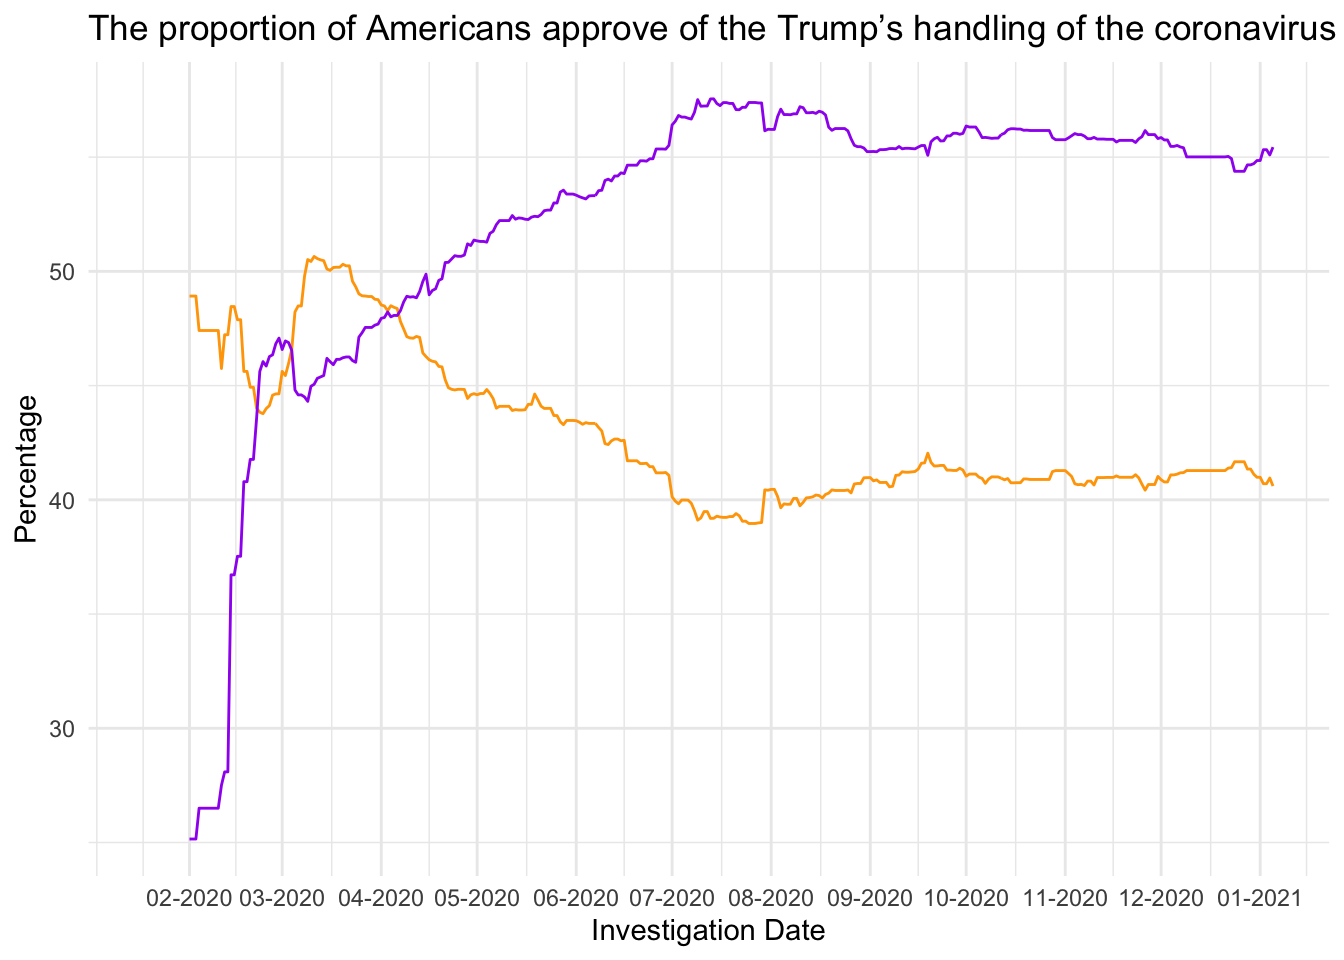
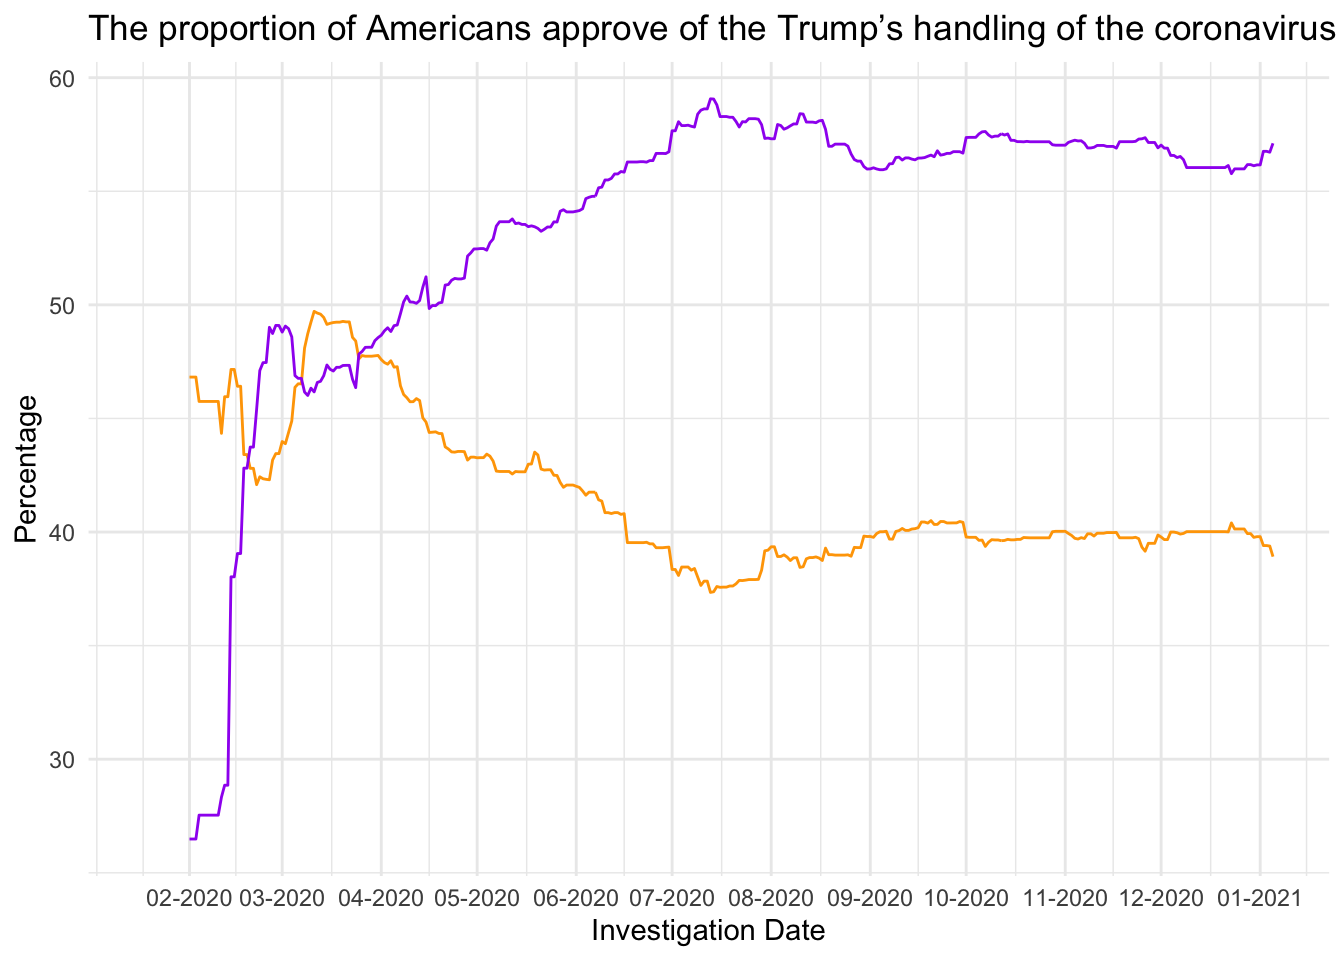
corrected a mistake from exercise 6

diff --git a/docs/presentation-exercise/presentation-exercise.html b/docs/presentation-exercise/presentation-exercise.html
@@ -372,7 +372,7 @@ disapprove_estimate), : Ignoring unknown parameters: `method` and `se`</code></p
 <div class="sourceCode cell-code" id="cb21"><pre class="sourceCode r code-with-copy"><code class="sourceCode r"><span id="cb21-1"><a href="#cb21-1" aria-hidden="true" tabindex="-1"></a><span class="co"># for figure 2</span></span>
 <span id="cb21-2"><a href="#cb21-2" aria-hidden="true" tabindex="-1"></a></span>
 <span id="cb21-3"><a href="#cb21-3" aria-hidden="true" tabindex="-1"></a>data1_trump <span class="ot">&lt;-</span> data1 <span class="sc">%&gt;%</span></span>
-<span id="cb21-4"><a href="#cb21-4" aria-hidden="true" tabindex="-1"></a>  <span class="fu">filter</span>(subject <span class="sc">==</span> <span class="st">"Trump"</span>) <span class="sc">%&gt;%</span></span>
+<span id="cb21-4"><a href="#cb21-4" aria-hidden="true" tabindex="-1"></a>  <span class="fu">filter</span>(subject <span class="sc">==</span> <span class="st">"Trump"</span>, party <span class="sc">==</span> <span class="st">"all"</span>) <span class="sc">%&gt;%</span></span>
 <span id="cb21-5"><a href="#cb21-5" aria-hidden="true" tabindex="-1"></a>  <span class="fu">group_by</span>(modeldate) <span class="sc">%&gt;%</span></span>
 <span id="cb21-6"><a href="#cb21-6" aria-hidden="true" tabindex="-1"></a>  <span class="fu">summarize</span>(<span class="at">approve_estimate_avg =</span> <span class="fu">mean</span>(approve_estimate, <span class="at">na.rm =</span> <span class="cn">TRUE</span>),</span>
 <span id="cb21-7"><a href="#cb21-7" aria-hidden="true" tabindex="-1"></a>            <span class="at">disapprove_estimate_avg =</span> <span class="fu">mean</span>(disapprove_estimate, <span class="at">na.rm =</span> <span class="cn">TRUE</span>))</span>
@@ -493,23 +493,23 @@ disapprove_estimate_avg), : Ignoring unknown parameters: `method` and `se`</code
 <span id="cb33-26"><a href="#cb33-26" aria-hidden="true" tabindex="-1"></a>  ) <span class="sc">%&gt;%</span></span>
 <span id="cb33-27"><a href="#cb33-27" aria-hidden="true" tabindex="-1"></a>  <span class="fu">opt_stylize</span>(<span class="at">style =</span> <span class="dv">6</span>, <span class="at">color =</span> <span class="st">'gray'</span>)</span></code><button title="Copy to Clipboard" class="code-copy-button"><i class="bi"></i></button></pre></div>
 <div class="cell-output-display">
-<div id="otycyqwcek" style="padding-left:0px;padding-right:0px;padding-top:10px;padding-bottom:10px;overflow-x:auto;overflow-y:auto;width:auto;height:auto;">
-<style>#otycyqwcek table {
+<div id="cqhwjmfbqi" style="padding-left:0px;padding-right:0px;padding-top:10px;padding-bottom:10px;overflow-x:auto;overflow-y:auto;width:auto;height:auto;">
+<style>#cqhwjmfbqi table {
   font-family: system-ui, 'Segoe UI', Roboto, Helvetica, Arial, sans-serif, 'Apple Color Emoji', 'Segoe UI Emoji', 'Segoe UI Symbol', 'Noto Color Emoji';
   -webkit-font-smoothing: antialiased;
   -moz-osx-font-smoothing: grayscale;
 }
 
-#otycyqwcek thead, #otycyqwcek tbody, #otycyqwcek tfoot, #otycyqwcek tr, #otycyqwcek td, #otycyqwcek th {
+#cqhwjmfbqi thead, #cqhwjmfbqi tbody, #cqhwjmfbqi tfoot, #cqhwjmfbqi tr, #cqhwjmfbqi td, #cqhwjmfbqi th {
   border-style: none;
 }
 
-#otycyqwcek p {
+#cqhwjmfbqi p {
   margin: 0;
   padding: 0;
 }
 
-#otycyqwcek .gt_table {
+#cqhwjmfbqi .gt_table {
   display: table;
   border-collapse: collapse;
   line-height: normal;
@@ -535,12 +535,12 @@ disapprove_estimate_avg), : Ignoring unknown parameters: `method` and `se`</code
   border-left-color: #D3D3D3;
 }
 
-#otycyqwcek .gt_caption {
+#cqhwjmfbqi .gt_caption {
   padding-top: 4px;
   padding-bottom: 4px;
 }
 
-#otycyqwcek .gt_title {
+#cqhwjmfbqi .gt_title {
   color: #333333;
   font-size: 125%;
   font-weight: initial;
@@ -552,7 +552,7 @@ disapprove_estimate_avg), : Ignoring unknown parameters: `method` and `se`</code
   border-bottom-width: 0;
 }
 
-#otycyqwcek .gt_subtitle {
+#cqhwjmfbqi .gt_subtitle {
   color: #333333;
   font-size: 85%;
   font-weight: initial;
@@ -564,7 +564,7 @@ disapprove_estimate_avg), : Ignoring unknown parameters: `method` and `se`</code
   border-top-width: 0;
 }
 
-#otycyqwcek .gt_heading {
+#cqhwjmfbqi .gt_heading {
   background-color: #FFFFFF;
   text-align: center;
   border-bottom-color: #FFFFFF;
@@ -576,13 +576,13 @@ disapprove_estimate_avg), : Ignoring unknown parameters: `method` and `se`</code
   border-right-color: #D3D3D3;
 }
 
-#otycyqwcek .gt_bottom_border {
+#cqhwjmfbqi .gt_bottom_border {
   border-bottom-style: solid;
   border-bottom-width: 2px;
   border-bottom-color: #5F5F5F;
 }
 
-#otycyqwcek .gt_col_headings {
+#cqhwjmfbqi .gt_col_headings {
   border-top-style: solid;
   border-top-width: 2px;
   border-top-color: #5F5F5F;
@@ -597,7 +597,7 @@ disapprove_estimate_avg), : Ignoring unknown parameters: `method` and `se`</code
   border-right-color: #D3D3D3;
 }
 
-#otycyqwcek .gt_col_heading {
+#cqhwjmfbqi .gt_col_heading {
   color: #FFFFFF;
   background-color: #5F5F5F;
   font-size: 100%;
@@ -617,7 +617,7 @@ disapprove_estimate_avg), : Ignoring unknown parameters: `method` and `se`</code
   overflow-x: hidden;
 }
 
-#otycyqwcek .gt_column_spanner_outer {
+#cqhwjmfbqi .gt_column_spanner_outer {
   color: #FFFFFF;
   background-color: #5F5F5F;
   font-size: 100%;
@@ -629,15 +629,15 @@ disapprove_estimate_avg), : Ignoring unknown parameters: `method` and `se`</code
   padding-right: 4px;
 }
 
-#otycyqwcek .gt_column_spanner_outer:first-child {
+#cqhwjmfbqi .gt_column_spanner_outer:first-child {
   padding-left: 0;
 }
 
-#otycyqwcek .gt_column_spanner_outer:last-child {
+#cqhwjmfbqi .gt_column_spanner_outer:last-child {
   padding-right: 0;
 }
 
-#otycyqwcek .gt_column_spanner {
+#cqhwjmfbqi .gt_column_spanner {
   border-bottom-style: solid;
   border-bottom-width: 2px;
   border-bottom-color: #5F5F5F;
@@ -649,11 +649,11 @@ disapprove_estimate_avg), : Ignoring unknown parameters: `method` and `se`</code
   width: 100%;
 }
 
-#otycyqwcek .gt_spanner_row {
+#cqhwjmfbqi .gt_spanner_row {
   border-bottom-style: hidden;
 }
 
-#otycyqwcek .gt_group_heading {
+#cqhwjmfbqi .gt_group_heading {
   padding-top: 8px;
   padding-bottom: 8px;
   padding-left: 5px;
@@ -679,7 +679,7 @@ disapprove_estimate_avg), : Ignoring unknown parameters: `method` and `se`</code
   text-align: left;
 }
 
-#otycyqwcek .gt_empty_group_heading {
+#cqhwjmfbqi .gt_empty_group_heading {
   padding: 0.5px;
   color: #333333;
   background-color: #FFFFFF;
@@ -694,15 +694,15 @@ disapprove_estimate_avg), : Ignoring unknown parameters: `method` and `se`</code
   vertical-align: middle;
 }
 
-#otycyqwcek .gt_from_md > :first-child {
+#cqhwjmfbqi .gt_from_md > :first-child {
   margin-top: 0;
 }
 
-#otycyqwcek .gt_from_md > :last-child {
+#cqhwjmfbqi .gt_from_md > :last-child {
   margin-bottom: 0;
 }
 
-#otycyqwcek .gt_row {
+#cqhwjmfbqi .gt_row {
   padding-top: 8px;
   padding-bottom: 8px;
   padding-left: 5px;
@@ -721,7 +721,7 @@ disapprove_estimate_avg), : Ignoring unknown parameters: `method` and `se`</code
   overflow-x: hidden;
 }
 
-#otycyqwcek .gt_stub {
+#cqhwjmfbqi .gt_stub {
   color: #333333;
   background-color: #D5D5D5;
   font-size: 100%;
@@ -734,7 +734,7 @@ disapprove_estimate_avg), : Ignoring unknown parameters: `method` and `se`</code
   padding-right: 5px;
 }
 
-#otycyqwcek .gt_stub_row_group {
+#cqhwjmfbqi .gt_stub_row_group {
   color: #333333;
   background-color: #FFFFFF;
   font-size: 100%;
@@ -748,15 +748,15 @@ disapprove_estimate_avg), : Ignoring unknown parameters: `method` and `se`</code
   vertical-align: top;
 }
 
-#otycyqwcek .gt_row_group_first td {
+#cqhwjmfbqi .gt_row_group_first td {
   border-top-width: 2px;
 }
 
-#otycyqwcek .gt_row_group_first th {
+#cqhwjmfbqi .gt_row_group_first th {
   border-top-width: 2px;
 }
 
-#otycyqwcek .gt_summary_row {
+#cqhwjmfbqi .gt_summary_row {
   color: #333333;
   background-color: #FFFFFF;
   text-transform: inherit;
@@ -766,16 +766,16 @@ disapprove_estimate_avg), : Ignoring unknown parameters: `method` and `se`</code
   padding-right: 5px;
 }
 
-#otycyqwcek .gt_first_summary_row {
+#cqhwjmfbqi .gt_first_summary_row {
   border-top-style: solid;
   border-top-color: #5F5F5F;
 }
 
-#otycyqwcek .gt_first_summary_row.thick {
+#cqhwjmfbqi .gt_first_summary_row.thick {
   border-top-width: 2px;
 }
 
-#otycyqwcek .gt_last_summary_row {
+#cqhwjmfbqi .gt_last_summary_row {
   padding-top: 8px;
   padding-bottom: 8px;
   padding-left: 5px;
@@ -785,7 +785,7 @@ disapprove_estimate_avg), : Ignoring unknown parameters: `method` and `se`</code
   border-bottom-color: #5F5F5F;
 }
 
-#otycyqwcek .gt_grand_summary_row {
+#cqhwjmfbqi .gt_grand_summary_row {
   color: #333333;
   background-color: #D5D5D5;
   text-transform: inherit;
@@ -795,7 +795,7 @@ disapprove_estimate_avg), : Ignoring unknown parameters: `method` and `se`</code
   padding-right: 5px;
 }
 
-#otycyqwcek .gt_first_grand_summary_row {
+#cqhwjmfbqi .gt_first_grand_summary_row {
   padding-top: 8px;
   padding-bottom: 8px;
   padding-left: 5px;
@@ -805,7 +805,7 @@ disapprove_estimate_avg), : Ignoring unknown parameters: `method` and `se`</code
   border-top-color: #5F5F5F;
 }
 
-#otycyqwcek .gt_last_grand_summary_row_top {
+#cqhwjmfbqi .gt_last_grand_summary_row_top {
   padding-top: 8px;
   padding-bottom: 8px;
   padding-left: 5px;
@@ -815,11 +815,11 @@ disapprove_estimate_avg), : Ignoring unknown parameters: `method` and `se`</code
   border-bottom-color: #5F5F5F;
 }
 
-#otycyqwcek .gt_striped {
+#cqhwjmfbqi .gt_striped {
   background-color: #F4F4F4;
 }
 
-#otycyqwcek .gt_table_body {
+#cqhwjmfbqi .gt_table_body {
   border-top-style: solid;
   border-top-width: 2px;
   border-top-color: #5F5F5F;
@@ -828,7 +828,7 @@ disapprove_estimate_avg), : Ignoring unknown parameters: `method` and `se`</code
   border-bottom-color: #5F5F5F;
 }
 
-#otycyqwcek .gt_footnotes {
+#cqhwjmfbqi .gt_footnotes {
   color: #333333;
   background-color: #FFFFFF;
   border-bottom-style: none;
@@ -842,7 +842,7 @@ disapprove_estimate_avg), : Ignoring unknown parameters: `method` and `se`</code
   border-right-color: #D3D3D3;
 }
 
-#otycyqwcek .gt_footnote {
+#cqhwjmfbqi .gt_footnote {
   margin: 0px;
   font-size: 90%;
   padding-top: 4px;
@@ -851,7 +851,7 @@ disapprove_estimate_avg), : Ignoring unknown parameters: `method` and `se`</code
   padding-right: 5px;
 }
 
-#otycyqwcek .gt_sourcenotes {
+#cqhwjmfbqi .gt_sourcenotes {
   color: #333333;
   background-color: #FFFFFF;
   border-bottom-style: none;
@@ -865,7 +865,7 @@ disapprove_estimate_avg), : Ignoring unknown parameters: `method` and `se`</code
   border-right-color: #D3D3D3;
 }
 
-#otycyqwcek .gt_sourcenote {
+#cqhwjmfbqi .gt_sourcenote {
   font-size: 90%;
   padding-top: 4px;
   padding-bottom: 4px;
@@ -873,63 +873,63 @@ disapprove_estimate_avg), : Ignoring unknown parameters: `method` and `se`</code
   padding-right: 5px;
 }
 
-#otycyqwcek .gt_left {
+#cqhwjmfbqi .gt_left {
   text-align: left;
 }
 
-#otycyqwcek .gt_center {
+#cqhwjmfbqi .gt_center {
   text-align: center;
 }
 
-#otycyqwcek .gt_right {
+#cqhwjmfbqi .gt_right {
   text-align: right;
   font-variant-numeric: tabular-nums;
 }
 
-#otycyqwcek .gt_font_normal {
+#cqhwjmfbqi .gt_font_normal {
   font-weight: normal;
 }
 
-#otycyqwcek .gt_font_bold {
+#cqhwjmfbqi .gt_font_bold {
   font-weight: bold;
 }
 
-#otycyqwcek .gt_font_italic {
+#cqhwjmfbqi .gt_font_italic {
   font-style: italic;
 }
 
-#otycyqwcek .gt_super {
+#cqhwjmfbqi .gt_super {
   font-size: 65%;
 }
 
-#otycyqwcek .gt_footnote_marks {
+#cqhwjmfbqi .gt_footnote_marks {
   font-size: 75%;
   vertical-align: 0.4em;
   position: initial;
 }
 
-#otycyqwcek .gt_asterisk {
+#cqhwjmfbqi .gt_asterisk {
   font-size: 100%;
   vertical-align: 0;
 }
 
-#otycyqwcek .gt_indent_1 {
+#cqhwjmfbqi .gt_indent_1 {
   text-indent: 5px;
 }
 
-#otycyqwcek .gt_indent_2 {
+#cqhwjmfbqi .gt_indent_2 {
   text-indent: 10px;
 }
 
-#otycyqwcek .gt_indent_3 {
+#cqhwjmfbqi .gt_indent_3 {
   text-indent: 15px;
 }
 
-#otycyqwcek .gt_indent_4 {
+#cqhwjmfbqi .gt_indent_4 {
   text-indent: 20px;
 }
 
-#otycyqwcek .gt_indent_5 {
+#cqhwjmfbqi .gt_indent_5 {
   text-indent: 25px;
 }
 </style>
